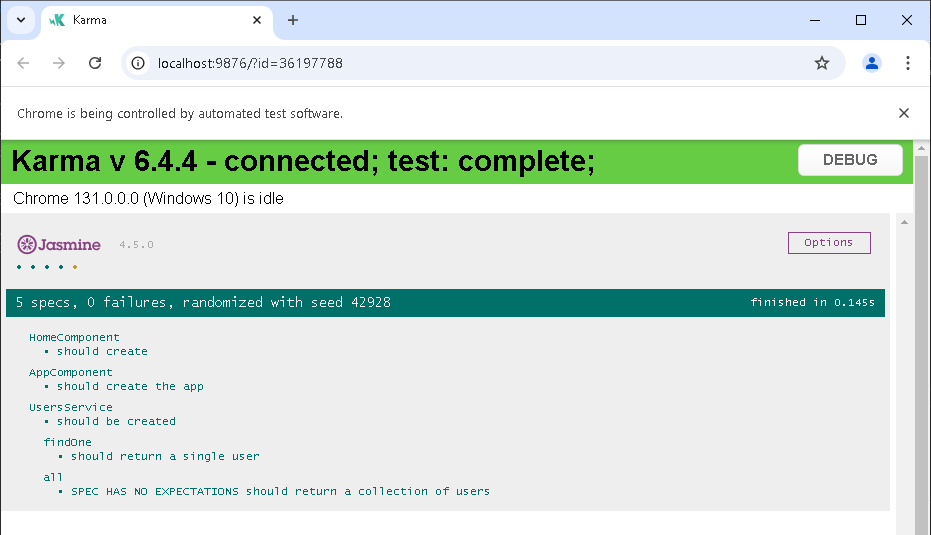
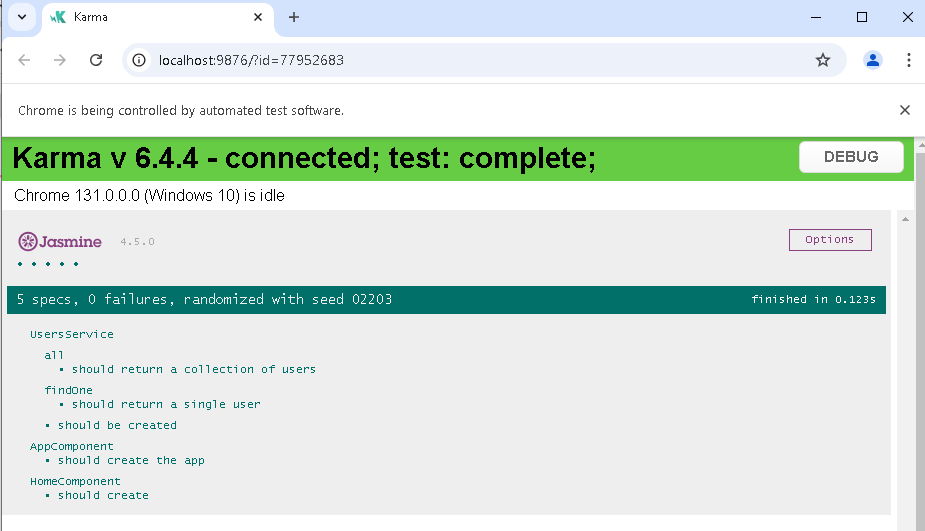
Updated the last screenshot due to finding an error in the code.

diff --git a/angular-testing/src/app/services/users/users.service.spec.ts b/angular-testing/src/app/services/users/users.service.spec.ts
@@ -37,6 +37,8 @@ describe('UsersService', () => {
       service.all().subscribe(res => {
         response = res;
       });
+
+      expect(response).toEqual(userResponse);
     });
   });
 
@@ -56,6 +58,7 @@ describe('UsersService', () => {
       service.findOne('2').subscribe(res => {
         response = res;
       });
+
       expect(response).toEqual(userResponse);
     });
   });
